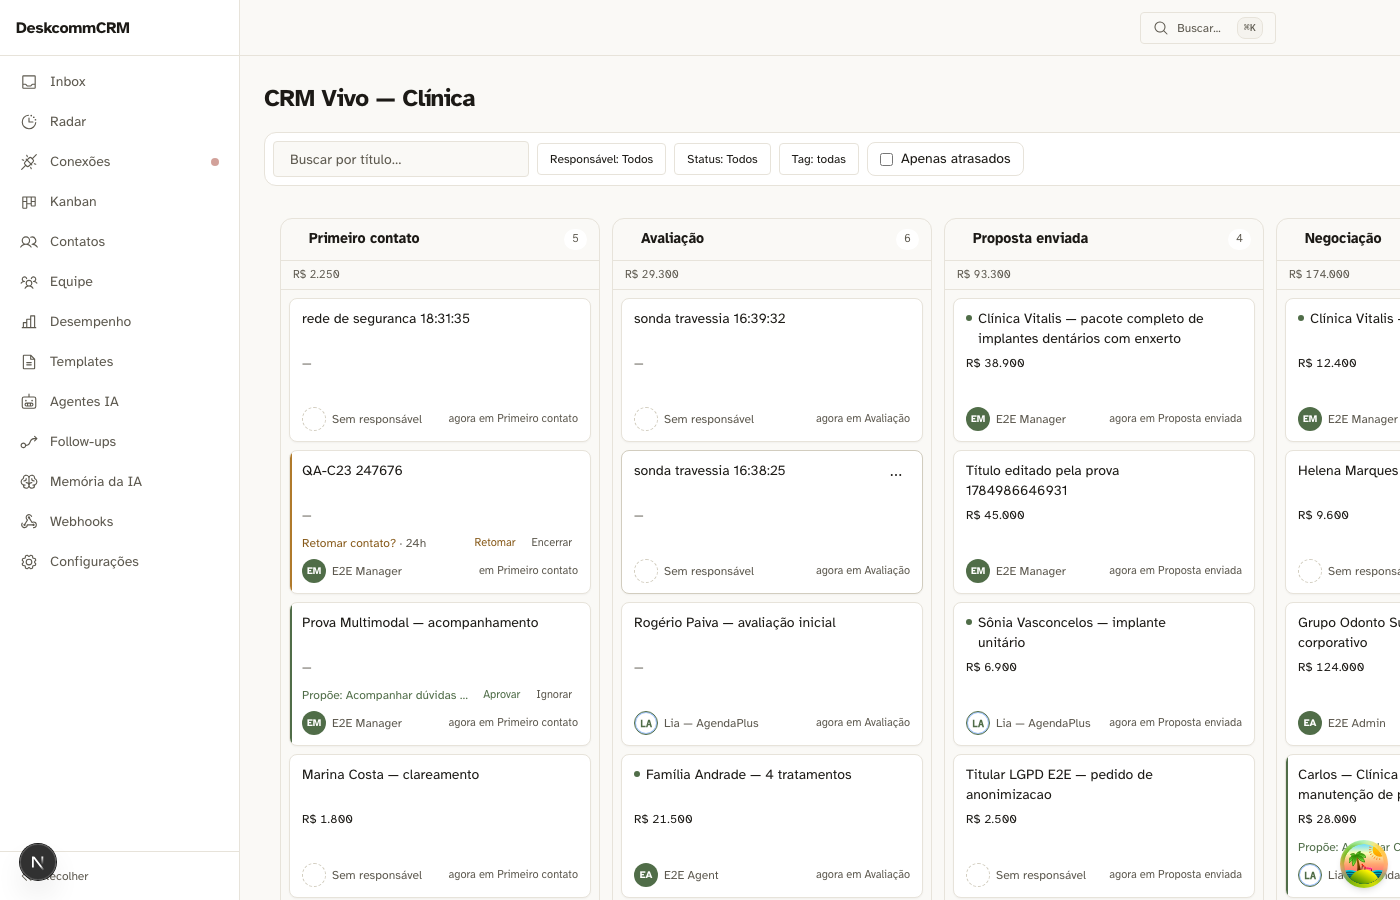
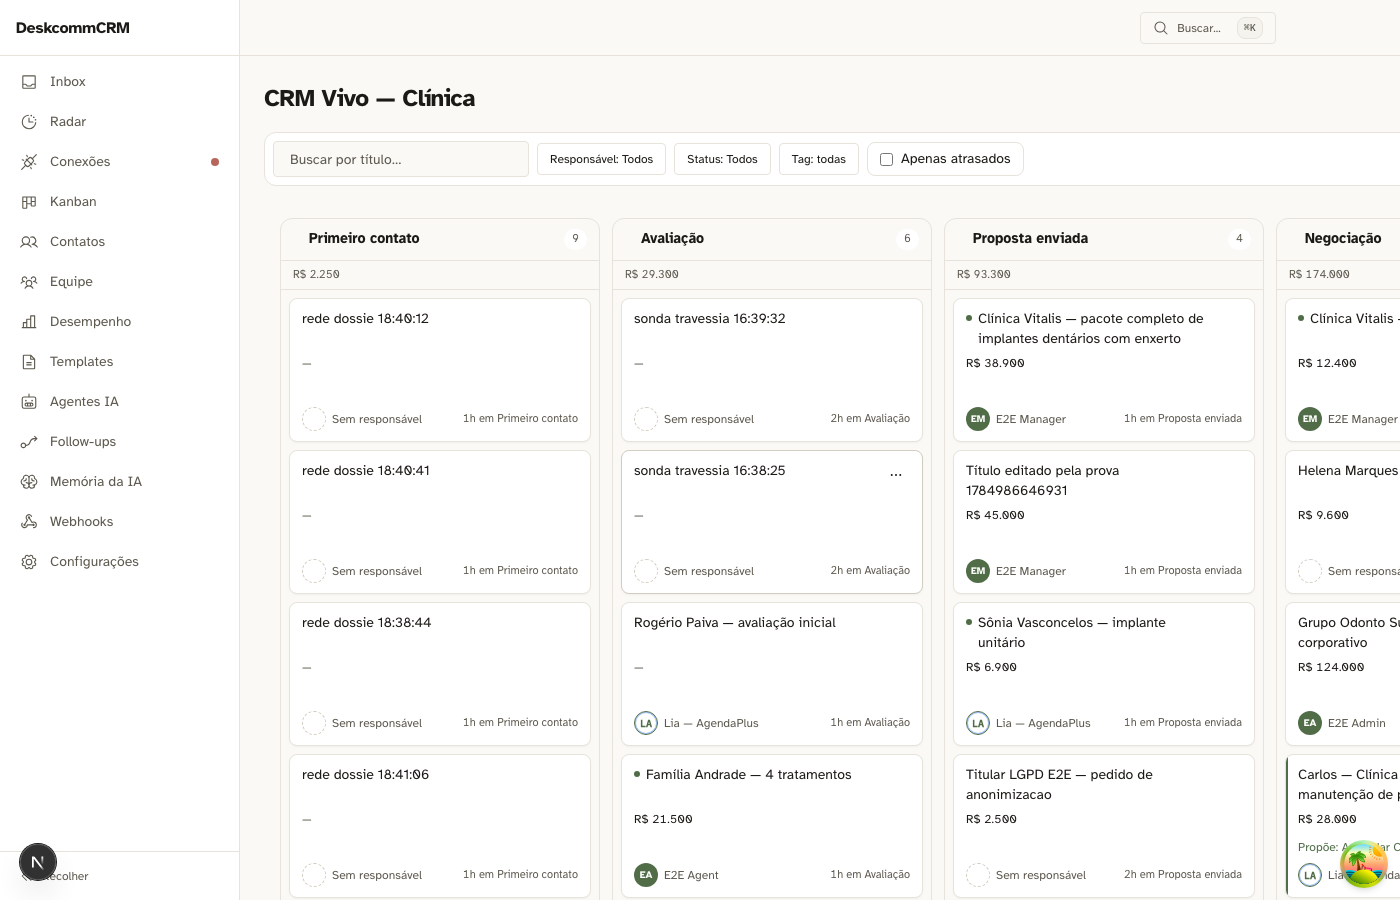
test(crm-vivo): evidencia da rede RE-TIRADA contra o HEAD, e o log para de mentir sobre a condicao
A evidencia anterior era de ANTES de 9d5b1f5 (o carimbo de entrega que saia
congelado do hook). Ela nao estava errada — ela NAO DISCRIMINAVA: a assercao que
sustenta e "canal vivo => 0 divergencias", e com leitura congelada essa assercao
PODIA ter falhado e nao falhou por acaso de tempo. Compativel com o codigo velho
E com o novo, ela registra um resultado que teria sido o mesmo de qualquer jeito.

Regra que fica: quando o codigo muda NAQUILO DE QUE A ASSERCAO DEPENDE, mesmo
sem mudar a logica que a implementa, a evidencia anterior deixa de sustenta-la.

QUATRO RODADAS contra HEAD 701e96f, com dev server reiniciado (o anterior subiu
10h antes do commit — `next dev` recompila, mas presumir isso e o que nao se faz):

  board   morta  canal NAO trouxe · curou · denunciou 0 -> 1
  board   viva   canal trouxe     · curou · 0 -> 0
  dossie  morta  canal NAO trouxe · curou · denunciou 0 -> 1   (canal=connecting)
  dossie  viva   canal trouxe     · curou · 0 -> 0             (canal=subscribed)

O par DISCRIMINA nas duas superficies: morta denuncia, viva nao.

E o log da sonda dizia "lead criado com a ENTREGA MORTA (websocket bloqueado)"
tambem na rodada de controle — frase fixa, instrumento descrevendo errado o que
fez. Quem lesse o log do controle leria "websocket bloqueado" sobre a rodada
cuja razao de existir e o websocket estar aberto.

A limpeza das duas passa por `apagaExatamenteUm`: delete que nao confere pode
[…]

diff --git a/tests/sonda-rede-de-seguranca.ts b/tests/sonda-rede-de-seguranca.ts
@@ -15,7 +15,7 @@ import { randomUUID } from "node:crypto";
 import { chromium } from "@playwright/test";
 import { createClient } from "@supabase/supabase-js";
 
-import { BASE, CARD_ATTR, login } from "./qa-helpers";
+import { apagaExatamenteUm, BASE, CARD_ATTR, login } from "./qa-helpers";
 
 const env = Object.fromEntries(
   fs.readFileSync(".env.local", "utf8").split("\n")
@@ -75,7 +75,15 @@ async function main(): Promise<void> {
     title: `rede de seguranca ${new Date().toISOString().slice(11, 19)}`,
     position_in_stage: 1,
   });
-  console.info("· lead criado com a ENTREGA MORTA (websocket bloqueado)");
+  // O log DIZ A CONDIÇÃO QUE REALMENTE VALEU. A frase era fixa em "ENTREGA
+  // MORTA" e a rodada de controle a imprimia igual — instrumento descrevendo
+  // errado o que fez. Quem lesse o log do controle leria "websocket bloqueado"
+  // sobre a rodada cuja razão de existir é o websocket estar aberto.
+  console.info(
+    MATAR
+      ? "· lead criado com a ENTREGA MORTA (websocket bloqueado)"
+      : "· lead criado com a ENTREGA VIVA (websocket passando)",
+  );
 
   // 8s: o canal teria entregue em ~2s se estivesse vivo.
   await page.waitForTimeout(8000);
@@ -94,7 +102,7 @@ async function main(): Promise<void> {
   console.info(`3. a rede DENUNCIOU? divergências ${antes.divergencias} → ${depois.divergencias}`);
   await page.screenshot({ path: "evidence/wave7-rede-de-seguranca.png" });
 
-  await admin.from("crm_leads").delete().eq("id", leadId);
+  await apagaExatamenteUm(admin, "crm_leads", leadId);
   await browser.close();
 }
 void main();

diff --git a/tests/sonda-rede-dossie.ts b/tests/sonda-rede-dossie.ts
@@ -11,7 +11,7 @@ import { randomUUID } from "node:crypto";
 import { chromium } from "@playwright/test";
 import { createClient } from "@supabase/supabase-js";
 
-import { BASE, CARD_ATTR, login } from "./qa-helpers";
+import { apagaExatamenteUm, BASE, CARD_ATTR, login } from "./qa-helpers";
 
 const env = Object.fromEntries(
   fs.readFileSync(".env.local", "utf8").split("\n")
@@ -116,7 +116,7 @@ async function main(): Promise<void> {
   console.info(`3. a rede DENUNCIOU? divergências ${antes.div} → ${depois.div}`);
   await page.screenshot({ path: "evidence/wave7-rede-dossie.png" });
 
-  await admin.from("crm_leads").delete().eq("id", leadId);
+  await apagaExatamenteUm(admin, "crm_leads", leadId);
   await browser.close();
 }
 void main();
